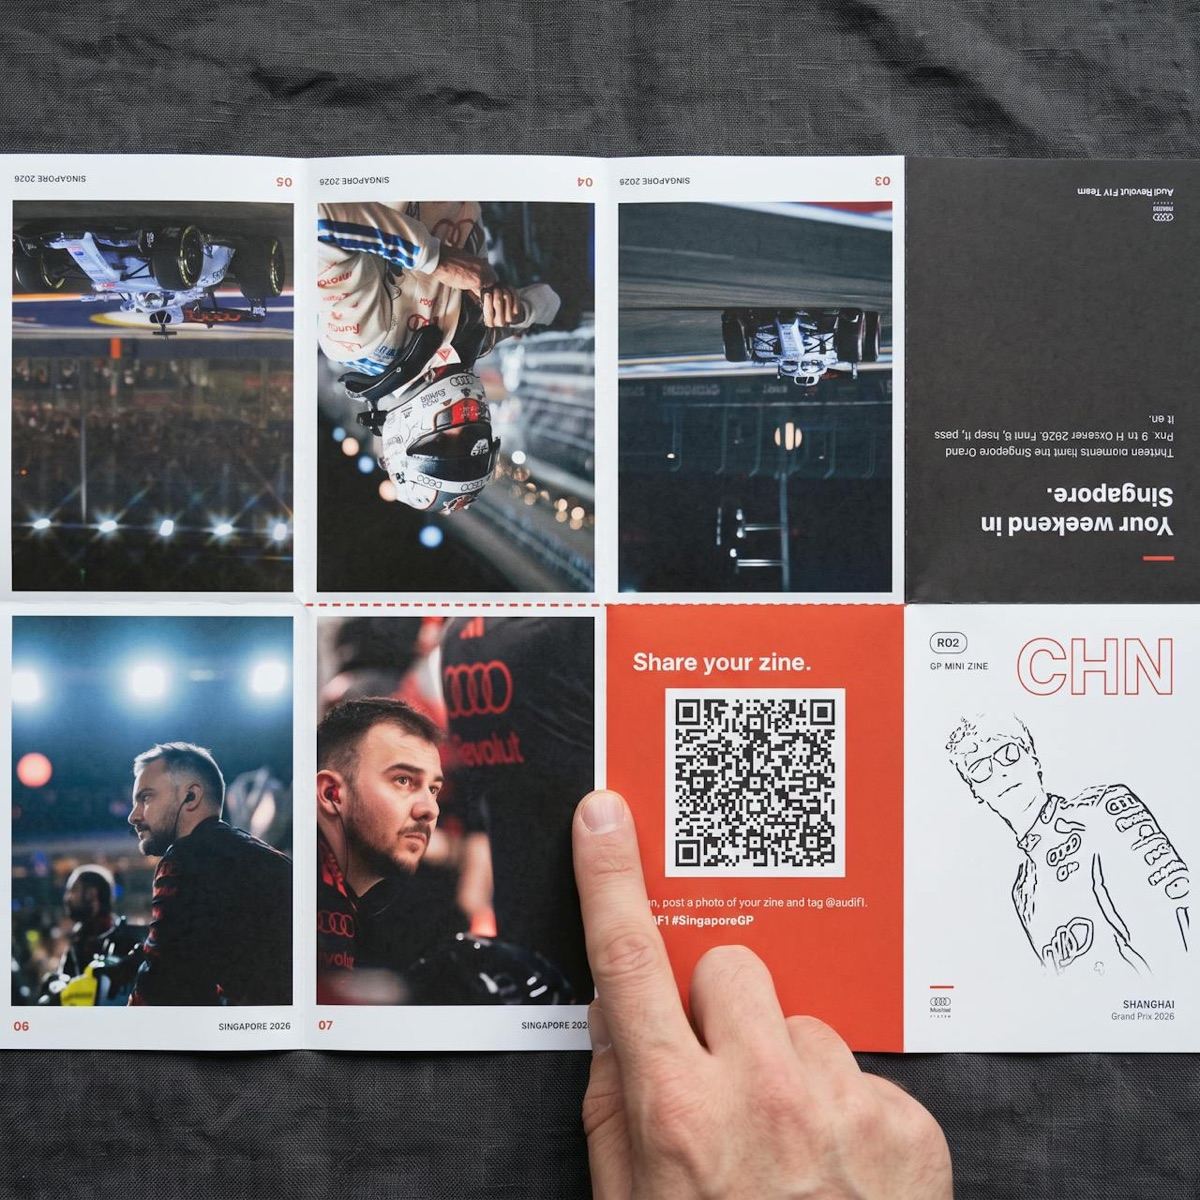
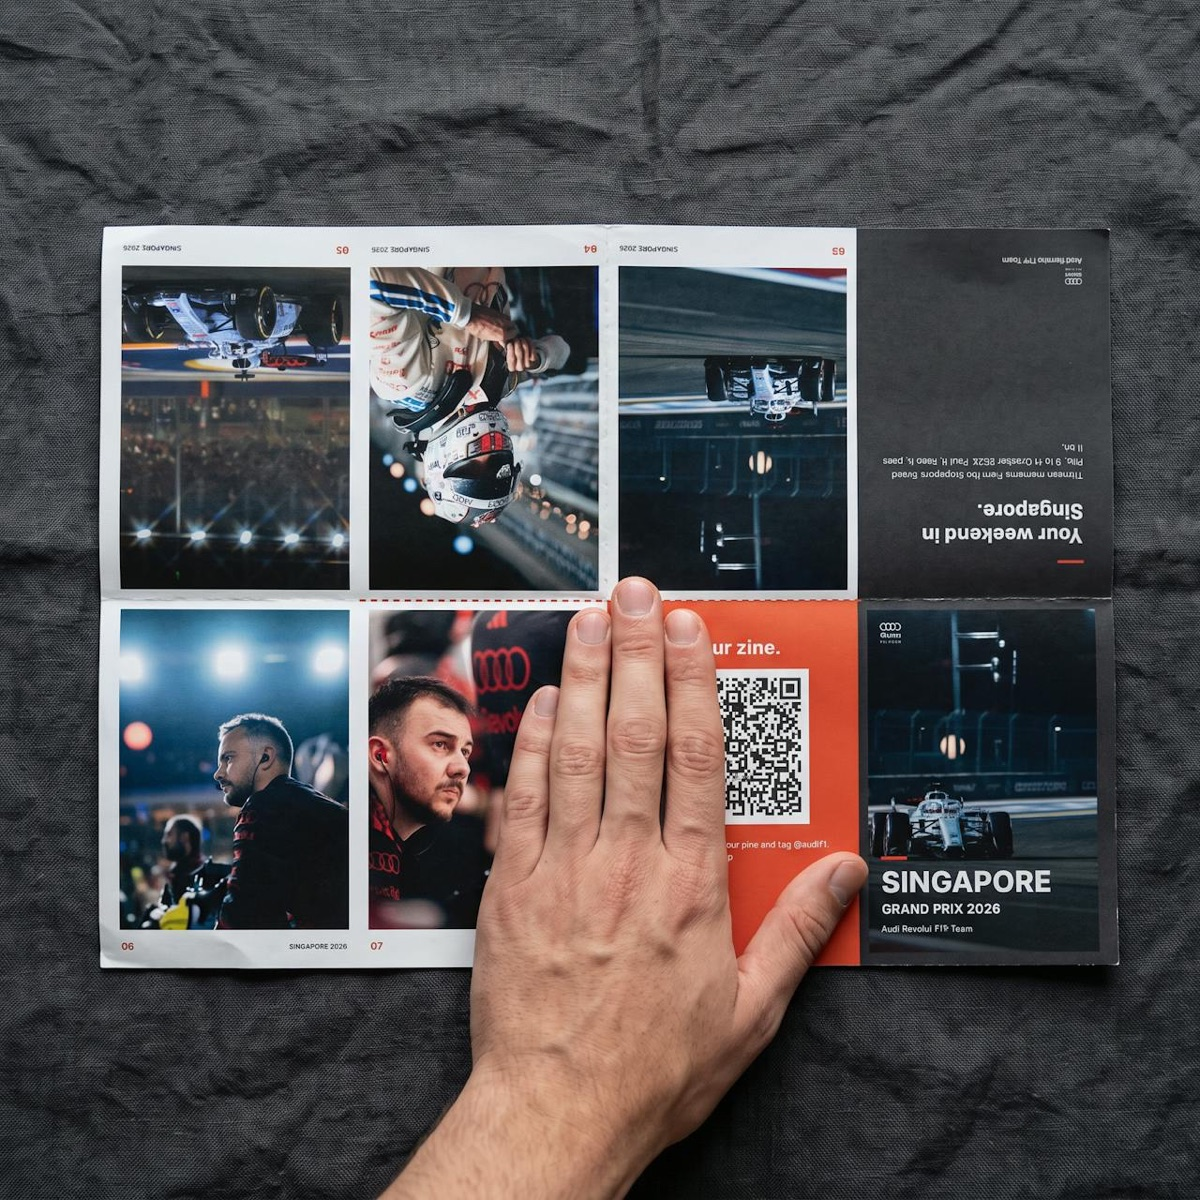
GP Mini-Zine: how-to photos and pitch 3D zine with the photo cover (Singapore)
Claude-Session: https://claude.ai/code/session_01XKR7jS9NcWBQec6LKuuJrK

diff --git a/public/pitch/gp-mini-zine.html b/public/pitch/gp-mini-zine.html
@@ -148,7 +148,7 @@
             <div class="leaf" style="--i:3"><div class="face front" style="background-image:url(/pitch/img/zine-p07.jpg)"></div><div class="face back" style="background-image:url(/pitch/img/zine-p03.jpg)"></div></div>
             <div class="leaf" style="--i:2"><div class="face front" style="background-image:url(/pitch/img/zine-p05.jpg)"></div><div class="face back" style="background-image:url(/pitch/img/zine-p06.jpg)"></div></div>
             <div class="leaf" style="--i:1"><div class="face front" style="background-image:url(/pitch/img/zine-p03.jpg)"></div><div class="face back" style="background-image:url(/pitch/img/zine-p04.jpg)"></div></div>
-            <div class="leaf" style="--i:0"><div class="face front" style="background-image:url(/pitch/cover-outline-portrait.png)"></div><div class="face back" style="background-image:url(/pitch/img/zine-p02.jpg)"></div></div>
+            <div class="leaf" style="--i:0"><div class="face front" style="background-image:url(/pitch/img/cover-photo.jpg)"></div><div class="face back" style="background-image:url(/pitch/img/zine-p02.jpg)"></div></div>
           </div>
         </div>
         </div>
